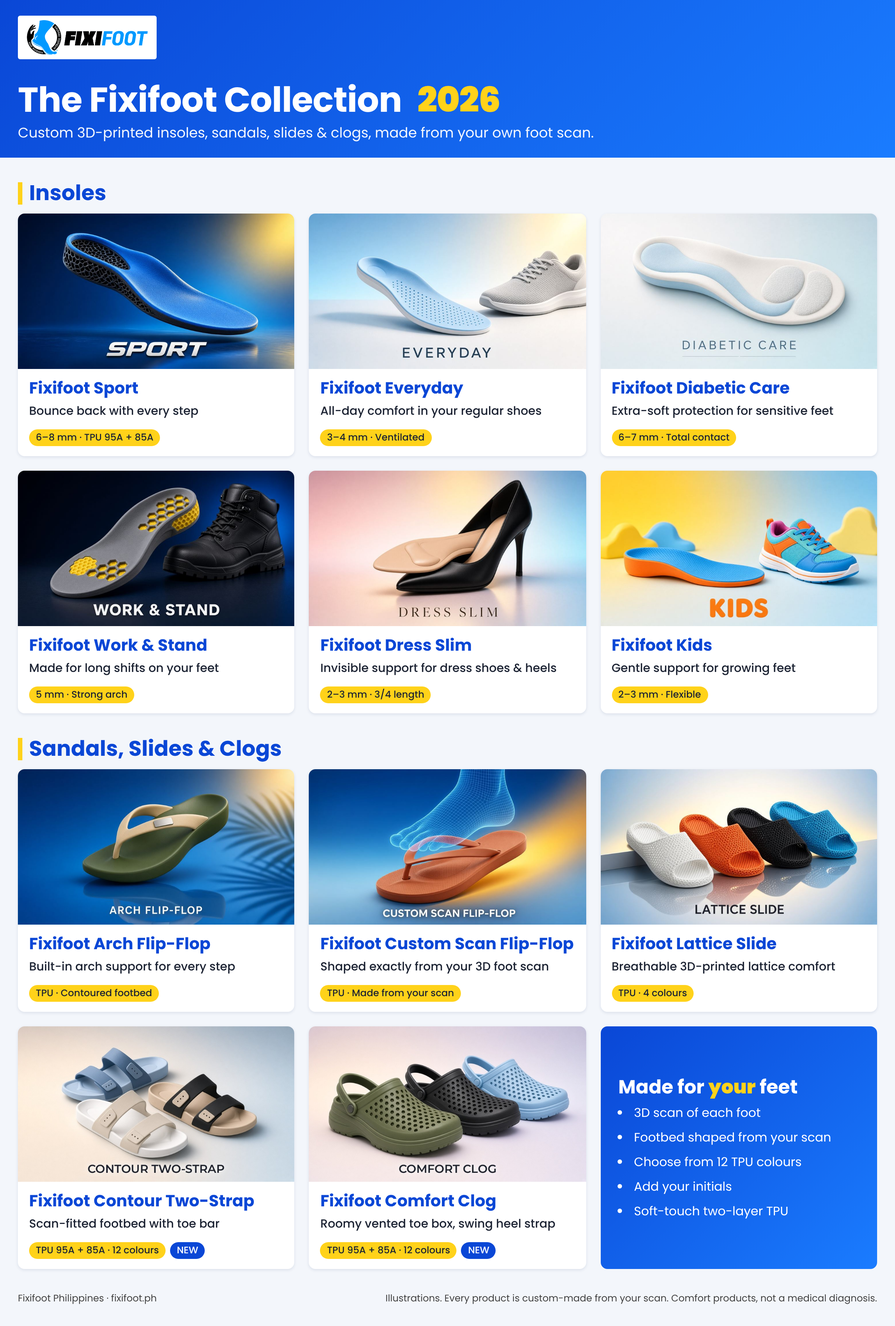
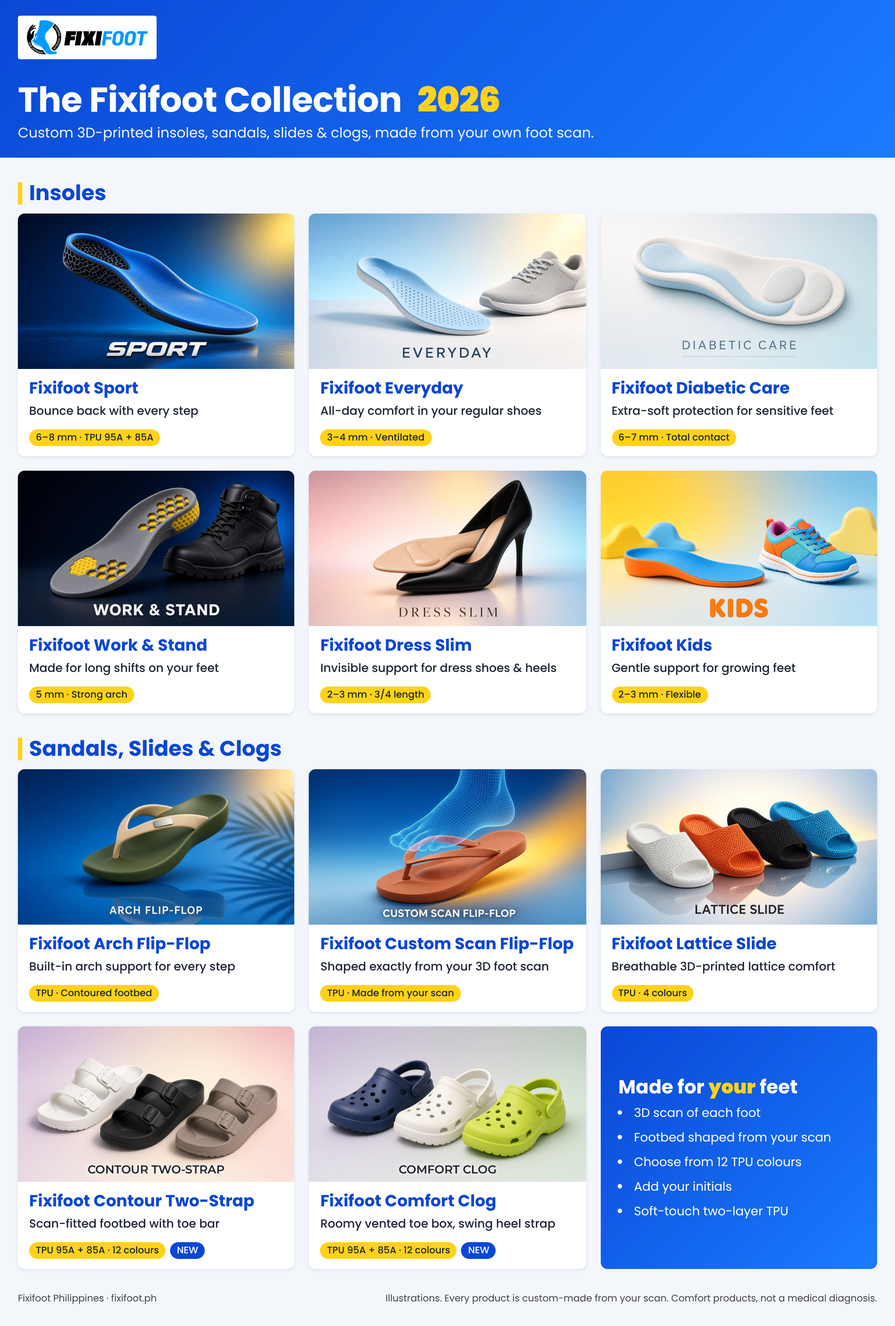
v13.2: classic-look Two-Strap (rim, toe ridge, tread, molded buckles) + Comfort Clog (round top/side vents, rounded nose, swing strap on rivets), new heroes

Changed region(s): [[0.0, 0.7487, 0.6562, 0.9047]]

diff --git a/footwear.js b/footwear.js
@@ -10,9 +10,11 @@ const smooth = (a, b, x) => { const t = clamp((x - a) / (b - a), 0, 1); return t
 const lerp = (a, b, t) => a + (b - a) * t;
 
 export const SHOE = {
-  sandal: { strapW: 26, strapT: 3.2, gap: 1.2, notch: 1.6, side: .25, tabBottom: 2.5, holeD: 4, buckle: 1.8, uRear: .52, dFront: .01 },
-  clog: { u0: .56, wall: 2.8, gap: .5, clearTop: 7, clearSide: 3, yB: 3, nose: 30, n: 2.6, minH: 18, vent: { cell: 15, wall: 4.5 },
-    flare: 14, strapH: 18, strapT: 3, pad: 1.2, pinH: 4.4, pinR: 3.1, holeD: 5.0, strapOff: 6 },
+  sandal: { strapW: 26, strapT: 3.2, gap: 1.2, notch: 1.6, side: .25, tabBottom: 2.5, uRear: .52, dFront: .01,
+    buckle: { h: 2.4, a: 11, bw: 2.6, at: 34, tail: 1.1, tailLen: 24 } }, // molded rectangular buckle (relief on the strap, same part)
+  clog: { u0: .56, wall: 2.8, gap: .5, clearTop: 7, clearSide: 3, yB: 3, nose: 40, n: 2.6, minH: 18,
+    vent: { n: 13, d: 11, du: 15, dx: 16.5 }, sideVent: { len: 15, h: 5.5, perSide: 2, aboveSole: 7 }, // round top vents in staggered rows + elongated side vents
+    flare: 14, strapH: 18, strapT: 3, pad: 1.6, padR: 8, pinH: 4.4, pinR: 3.1, holeD: 5.0, strapOff: 6, swingDrop: 22 }, // heel strap shown swung down: its plane is tilted about the pin axis
 };
 
 /* ---------- 1. top-of-foot envelope (max height per foot-u / across bin), from the scan mesh or the model foot ---------- */
@@ -111,29 +113,31 @@ function sandalStraps({ md, rows, env }) {
     const lo = Math.min(xMs, xLs), hi = Math.max(xMs, xLs);
     path = path.map(([x, y]) => (y < top && x > lo + .01 && x < hi - .01) ? [Math.abs(x - xMs) < Math.abs(x - xLs) ? xMs : xLs, y] : [x, y]); // never cut into the sole edge
     const Lp = plen(path), Pn = resample(path, Math.max(80, Math.ceil(Lp / .8))), ps = pathSampler(Pn, [(xMs + xLs) / 2, C.tabBottom + 8]);
-    // lateral side: raised slider frame + 3 adjustment holes (adjustable look; the strap is sized from the scan)
-    const tabL = tzL + 3 - C.tabBottom, dB = tabL + 22, uOfD = dd => 1 - dd / Lp, bU = uOfD(dB);
-    const holes = [0, 1, 2].map(k => ({ u: uOfD(dB + 16 + 7 * k), r: C.holeD / 2 }));
-    const bump = (ui, sn) => C.buckle * (1 - smooth(.72, 1, Math.max(Math.abs(ui - bU) * Lp / 9, Math.abs(sn) / .82)));
-    const plan = bandPlan(Lp, W, holes), I = v => { const q = ps(v.ui); return [q.p[0], q.p[1], zk + v.sn * W / 2]; };
+    // lateral side: molded rectangular buckle (frame + centre bar) and the strap tail lying over the strap (adjustable look; the strap is sized from the scan)
+    const B = C.buckle, tabL = tzL + 3 - C.tabBottom, dB = tabL + B.at, bL = (1 - dB / Lp) * Lp, bb = W / 2 * .8, sq = (v, a, e) => 1 - smooth(a - e, a + e * .4, Math.abs(v));
+    const bump = (ui, sn) => { const l = ui * Lp - bL, x = sn * W / 2, outer = sq(l, B.a, .7) * sq(x, bb, .7), inner = sq(l, B.a - B.bw, .6) * sq(x, bb - B.bw, .6), bar = sq(l, B.bw * .45, .5) * inner;
+      const tail = B.tail * (1 - smooth(B.tailLen - 4, B.tailLen, -l)) * smooth(-2, 0, -l) * sq(x, W / 2 * .86, .9); // tail runs from the buckle towards the top of the arch
+      return Math.max(B.h * Math.max(outer - inner, bar), tail * (1 - outer)); };
+    const plan = bandPlan(Lp, W), I = v => { const q = ps(v.ui); return [q.p[0], q.p[1], zk + v.sn * W / 2]; };
     const O = v => { const q = ps(v.ui), t = C.strapT + bump(v.ui, v.sn); return [q.p[0] + q.n[0] * t, q.p[1] + q.n[1] * t, zk + v.sn * W / 2]; };
     const b = shellBody(plan, isInsertHole(plan), I, O);
     const pg = toBed(b.geometry); // printed on edge: arch in XY, strap width along Z (no supports)
     parts.push({ id: d.id, name: d.name, geometry: b.geometry, printGeometry: pg, volumeMm3: b.volumeMm3,
-      stats: { footU: +d.u.toFixed(3), widthMm: +W.toFixed(1), thicknessMm: C.strapT, lengthMm: Math.round(Lp), archTopMm: Math.round(Math.max(...Pn.map(p => p[1]))), clearanceOverFootMm: C.gap, footTopUnderStrapMm: Math.round(envPeak), adjustmentHoles: 3, orientation: 'on edge (strap width vertical), arch flat on the bed' } });
+      stats: { footU: +d.u.toFixed(3), widthMm: +W.toFixed(1), thicknessMm: C.strapT, lengthMm: Math.round(Lp), archTopMm: Math.round(Math.max(...Pn.map(p => p[1]))), clearanceOverFootMm: C.gap, footTopUnderStrapMm: Math.round(envPeak), buckle: 'molded rectangular buckle (relief, same part)', orientation: 'on edge (strap width vertical), arch flat on the bed' } });
   }
   return parts;
 }
 
-/* ---------- 5. Comfort Clog: roomy toe-box upper with honeycomb vents + pivoting heel strap ---------- */
+/* ---------- 5. Comfort Clog: roomy toe-box upper with round top vents, side vents + swing heel strap on round rivets ---------- */
 function clogParts({ md, rows, frame: F, env, heelStrap = true }) {
   const C = SHOE.clog, T = rowTools(rows, md), sg = md.medialX, n = C.n, yB = C.yB;
   const z0 = md.zOfU(C.u0), zEi = F.zFront - C.gap;
   const edgeZ = z => F.edge(clamp((F.zBack - z) / F.Li, 0, 1));
-  const NT = 150, NA = 121, NW = 16, R = [];
+  const NT0 = 150, NC = 14, NT = NT0 + NC, NA = 121, NW = 16, R = [], capLen = 9; // NC sections beyond the sole front close the nose (rounded cap)
+  const CF = Array.from({ length: NT + 1 }, (_, k) => k <= NT0 ? 1 : Math.max(.05, Math.sqrt(1 - ((k - NT0) / NC) ** 2)));
   const frac = q => Math.pow(Math.max(0, 1 - Math.pow(Math.min(1, Math.abs(q)), n)), 1 / n);
   // section = straight side walls (yB -> yW, wrapping the sole side) + superellipse roof (yW -> H)
-  const ZI = Array.from({ length: NT + 1 }, (_, k) => lerp(z0, zEi, k / NT)), EI = ZI.map(edgeZ), AI = EI.map(e => e.half + C.gap), len = z0 - zEi;
+  const ZI = Array.from({ length: NT + 1 }, (_, k) => k <= NT0 ? lerp(z0, zEi, k / NT0) : zEi - capLen * Math.sin(Math.PI / 2 * (k - NT0) / NC)), EI = ZI.map(edgeZ), AI = EI.map((e, k) => (e.half + C.gap) * CF[k]), len = z0 - zEi;
   const LF = ZI.map(z => T.lift(clamp(md.uOfZ(z), 0, 1))), DT = ZI.map(z => z - zEi);
   const YS = ZI.map(z => { const r = rows[T.iOfZ(Math.max(z, F.zFront))]; return Math.max(r[0].tz, r[T.M - 1].tz) + 1; }); // sole edge top: the upper wraps the sole side wall up to here
   const FOOT = ZI.map((zi, k) => { const e = EI[k], a = AI[k], out = [];
@@ -142,17 +146,18 @@ function clogParts({ md, rows, frame: F, env, heelStrap = true }) {
   // roof height + per-side roof half-width (the walls may flare out above the sole so the roof clears the scanned foot)
   const solveRow = (k, yW) => { const a = AI[k], pts = FOOT[k].filter(p => p[1] > yW); if (!pts.length) return { H: DT[k] > C.nose ? yW + 10 : yB + 2, aM: a, aL: a };
     const Ymax = Math.max(...pts.map(p => p[1]));
-    for (let Ht = Ymax + 3; ; Ht += 2) { let aM = a, aL = a;
+    for (let Ht = Ymax + 3; ; Ht += .5) { let aM = a, aL = a;
       for (const [dx, y] of pts) { const r = (y - yW) / (Ht - yW), g = Math.pow(Math.max(1e-6, 1 - Math.pow(r, n)), 1 / n), need = Math.abs(dx) / g + .5; if (dx * sg >= 0) aM = Math.max(aM, need); else aL = Math.max(aL, need); }
       if ((aM <= a + C.flare && aL <= a + C.flare) || Ht > Ymax + (DT[k] > C.nose ? 40 : 12)) return { H: Ht, aM: Math.min(aM, a + C.flare), aL: Math.min(aL, a + C.flare) }; } };
   const runMax = (A, r) => A.map((_, i) => Math.max(...A.slice(Math.max(0, i - r), i + r + 1))), runMean = (A, r) => A.map((_, i) => { const s = A.slice(Math.max(0, i - r), i + r + 1); return s.reduce((x, y) => x + y, 0) / s.length; });
-  const YW0 = LF.map((l, k) => Math.max(l + 16, YS[k] + 8)), kN = clamp(Math.round((1 - C.nose / len) * NT), 0, NT), sm = A => runMean(runMax(A, 4), 6);
+  const YW0 = LF.map((l, k) => Math.max(l + 16, YS[k] + 8)), kN = clamp(Math.round((1 - C.nose / len) * NT0), 0, NT0), sm = A => runMean(runMax(A, 6), 8);
   const shape = YW => { const sol = YW.map((w, k) => solveRow(k, w)), Hr = sol.map(x => x.H); let H = sm(Hr); const HN = H[kN];
-    H = H.map((h, k) => { const d = DT[k]; if (d >= C.nose) return Math.max(h, Hr[k]); return Math.max(Hr[k], yB + (HN - yB) * Math.sqrt(Math.max(0, 1 - ((C.nose - d) / C.nose) ** 2))); });
+    const NS = C.nose + capLen; H = H.map((h, k) => { const d = DT[k] + capLen; if (d >= NS) return Math.max(h, Hr[k]); const base = YS[k] + 2; return Math.max(k > NT0 ? 0 : Hr[k], base + (HN - base) * Math.sqrt(Math.max(0, 1 - ((NS - d) / NS) ** 2))); }); // rounded nose down onto the sole edge, through the cap // nose closes onto the sole edge (never below the footbed)
+    H = runMean(H, 5).map((h, k) => Math.max(h, k > NT0 ? 0 : Hr[k] - .8)); // no ripples: smooth roof line (≤ 0.8 mm into the 7 mm clearance)
     const aM = sm(sol.map(x => x.aM)).map((v, k) => Math.max(v, AI[k])), aL = sm(sol.map(x => x.aL)).map((v, k) => Math.max(v, AI[k])); return { H, aM, aL }; };
   let SH = shape(YW0), YW = YW0.map((w, k) => Math.min(w, yB + .55 * (SH.H[k] - yB)));
   SH = shape(YW); YW = YW0.map((w, k) => Math.min(w, yB + .55 * (SH.H[k] - yB)));
-  const H = SH.H.map((h, k) => Math.max(h, YW[k] + 1));
+    const H = SH.H.map((h, k) => Math.max(h, YW[k] + 1));
   for (let k = 0; k <= NT; k++) {
     const t = k / NT, zi = ZI[k], ei = EI[k], Hi = H[k], Ho = Hi + C.wall * (1 - smooth(.94, 1, t)), yW = YW[k], yS = Math.min(YS[k], yB + .6 * (yW - yB));
     // outer outline = inner outline offset by the wall thickness along its plan normal (true offset round the toe)
@@ -183,17 +188,29 @@ function clogParts({ md, rows, frame: F, env, heelStrap = true }) {
     piv = { uiP, yP, M: snAt(1), L: snAt(-1) };
     extras.push({ id: 'pinM', u: uiP, sn: piv.M, ru: C.pinR, rs: C.pinR, n: 20, minRim: 2 }, { id: 'pinL', u: uiP, sn: piv.L, ru: C.pinR, rs: C.pinR, n: 20, minRim: 2 });
   }
-  const plan = planSplit(S, { mode: 'lattice', preset: { ...C.vent }, rimMargin: 9, allow: (u, sn) => u > .18 && u < .76 && Math.abs(sn) < .36, extras });
+  // vents: ~13 round holes in staggered rows on top of the toe box + elongated side vents just above the sole line (real through-holes)
+  const LR = ridge[NT], halfAt = ui => S(ui, 1).x, uiOfL = l => { let a = 0, b = 1; for (let it = 0; it < 40; it++) { const m = (a + b) / 2; if (S(m, 0).l < l) a = m; else b = m; } return (a + b) / 2; };
+  const V = C.vent, lc = LR * .5, cand = [];
+  for (let r = -4; r <= 4; r++) for (let j = -5; j <= 5; j++) { const l = lc + r * V.du, x = (j + (r & 1) * .5) * V.dx, ui = uiOfL(l); if (ui < .2 || ui > .84) continue; const sn = x / halfAt(ui); if (Math.abs(sn) > .4) continue;
+    cand.push({ ui, sn, d: Math.hypot(l - lc, x / 1.3) }); }
+  cand.sort((a, b) => a.d - b.d);
+  for (const c of cand.slice(0, V.n + 4)) extras.push({ id: 'vent' + extras.length, u: c.ui, sn: c.sn, ru: V.d / 2, rs: V.d / 2, n: 24, minRim: 3, _top: 1 });
+  const SV = C.sideVent, snY = (ui, side, y) => { let lo = side > 0 ? 0 : -1, hi = side > 0 ? 1 : 0; for (let it = 0; it < 40; it++) { const m = (lo + hi) / 2, yy = at(ui, m, false)[1]; if ((yy > y) === (side > 0)) lo = m; else hi = m; } return (lo + hi) / 2; };
+  const uiS0 = piv ? piv.uiP + 22 / LR : .2;
+  for (let q = 0; q < SV.perSide; q++) { const ui = lerp(uiS0, .66, SV.perSide > 1 ? q / (SV.perSide - 1) : .5), k = Math.round(ui * NT), y = Math.min(YS[k], yB + .6 * (YW[k] - yB)) + SV.aboveSole;
+    for (const side of [1, -1]) extras.push({ id: 'side' + extras.length, u: ui, sn: snY(ui, side, y), ru: SV.len / 2, rs: SV.h / 2, n: 24, minRim: 2.5 }); }
+  const plan = planSplit(S, { rimMargin: 6, extras });
+  { let kept = 0; for (const f of plan.feats) if (f.kind === 'insert' && /^vent/.test(f.id)) { kept++; if (kept > V.n) f.kind = 'dropped'; } }
   const devAt = (ui, sn) => { const s = S(ui, sn); return [s.x, s.l]; };
   const pinD = piv ? ['M', 'L'].map(k => { const d = devAt(piv.uiP, piv[k]); return d; }) : [];
   const bumpAt = v => { if (!piv) return 0; let b = 0; for (const d of pinD) { const s = S(v.ui, v.sn), r = Math.hypot(s.x - d[0], s.l - d[1]);
-    b = Math.max(b, C.pad * (1 - smooth(5, 8, r)) + C.pinH * (1 - smooth(C.pinR * .62, C.pinR * .9, r))); } return b; };
+    b = Math.max(b, C.pad * (1 - smooth(C.padR - 2.5, C.padR, r)) + C.pinH * (1 - smooth(C.pinR * .62, C.pinR * .9, r))); } return b; }; // round rivet: raised disc + pin
   const Ifn = v => at(v.ui, v.sn, false), Ofn = v => { const o = at(v.ui, v.sn, true), b = bumpAt(v); if (!b) return o; const i = at(v.ui, v.sn, false), d = [o[0] - i[0], o[1] - i[1], o[2] - i[2]], l = Math.hypot(...d) || 1; return [o[0] + d[0] / l * b, o[1] + d[1] / l * b, o[2] + d[2] / l * b]; };
-  const isVent = t => t.t === 'i' && plan.feats[t.f].kind === 'cell';
-  const vents = plan.feats.filter(f => f.kind === 'cell').length;
+  const isVent = t => t.t === 'i' && plan.feats[t.f].kind === 'insert' && /^(vent|side)/.test(plan.feats[t.f].id);
+  const vents = plan.feats.filter(f => f.kind === 'insert' && /^vent/.test(f.id)).length, sideVents = plan.feats.filter(f => f.kind === 'insert' && /^side/.test(f.id)).length;
   const up = shellBody(plan, t => !isVent(t), Ifn, Ofn);
-  const parts = [{ id: 'upper', name: 'Clog upper (toe box, honeycomb vents)', geometry: up.geometry, printGeometry: toBed(up.geometry, Math.PI / 2), volumeMm3: up.volumeMm3,
-    stats: { throatFootU: C.u0, wallMm: C.wall, toeAllowanceMm: +(md.zToe - zEi).toFixed(1), clearanceTopMm: C.clearTop, clearanceSideMm: C.clearSide, heightMm: Math.round(Math.max(...R.map(r => r.Ho))), roofProfileMm: H.filter((_, k) => k % 15 === 0).map(Math.round), wallTopMm: YW.filter((_, k) => k % 15 === 0).map(Math.round), roofHalfMm: SH.aM.filter((_, k) => k % 15 === 0).map(Math.round), vents, ventCellMm: C.vent.cell, ventWallMm: C.vent.wall, orientation: 'upright, rim down; organic supports under the toe-box roof only' } }];
+  const parts = [{ id: 'upper', name: 'Clog upper (toe box, round vents)', geometry: up.geometry, printGeometry: toBed(up.geometry, Math.PI / 2), volumeMm3: up.volumeMm3,
+    stats: { throatFootU: C.u0, wallMm: C.wall, toeAllowanceMm: +(md.zToe - zEi).toFixed(1), clearanceTopMm: C.clearTop, clearanceSideMm: C.clearSide, heightMm: Math.round(Math.max(...R.map(r => r.Ho))), roofProfileMm: H.filter((_, k) => k % 15 === 0).map(Math.round), wallTopMm: YW.filter((_, k) => k % 15 === 0).map(Math.round), roofHalfMm: SH.aM.filter((_, k) => k % 15 === 0).map(Math.round), vents, ventDiameterMm: C.vent.d, sideVents, sideVentMm: [SV.len, SV.h], orientation: 'upright, rim down; organic supports under the toe-box roof only' } }];
   if (piv) { // pivoting heel strap: band around the heel, outside the sole outline, holes over the pins
     const pM = Ofn({ ui: piv.uiP, sn: piv.M }), pL = Ofn({ ui: piv.uiP, sn: piv.L }), iM = Ifn({ ui: piv.uiP, sn: piv.M }), iL = Ifn({ ui: piv.uiP, sn: piv.L });
     const padM = Ofn({ ui: piv.uiP + 5.5 / ridge[NT], sn: piv.M }), padL = Ofn({ ui: piv.uiP + 5.5 / ridge[NT], sn: piv.L }); // pad surface next to the pin
@@ -208,8 +225,12 @@ function clogParts({ md, rows, frame: F, env, heelStrap = true }) {
     const proj = s => { let b = 0, bd = Infinity; P2.forEach((p, i) => { const d = Math.hypot(p[0] - s[0], p[1] - s[1]); if (d < bd) { bd = d; b = i; } }); return b / (P2.length - 1); };
     const hs = [proj(sM), proj(sL)], plan2 = bandPlan(Lp, C.strapH, hs.map(u => ({ u, r: C.holeD / 2 })));
     const I2 = v => { const q = ps(v.ui); return [q.p[0], piv.yP + v.sn * C.strapH / 2, q.p[1]]; }, O2 = v => { const q = ps(v.ui); return [q.p[0] + q.n[0] * C.strapT, piv.yP + v.sn * C.strapH / 2, q.p[1] + q.n[1] * C.strapT]; };
-    const hb = shellBody(plan2, isInsertHole(plan2), I2, O2);
-    parts.push({ id: 'heelStrap', name: 'Heel strap (pivots on the two pins)', geometry: hb.geometry, printGeometry: toBed(hb.geometry, Math.PI / 2), volumeMm3: hb.volumeMm3,
+    const hb = shellBody(plan2, isInsertHole(plan2), I2, O2), flat = hb.geometry, worn = flat.clone();
+    { // swing the strap down round the pin axis (planar part -> printed flat on edge, worn tilted round the heel)
+      const zBackS = Math.max(...back.map(q => q[1])), ang = Math.atan2(C.swingDrop, Math.max(40, zBackS - zP)), Pz = worn.attributes.position;
+      for (let i = 0; i < Pz.count; i++) { const y = Pz.getY(i) - piv.yP, z = Pz.getZ(i) - zP; Pz.setY(i, piv.yP + y * Math.cos(ang) - z * Math.sin(ang)); Pz.setZ(i, zP + y * Math.sin(ang) + z * Math.cos(ang)); }
+      worn.computeVertexNormals(); }
+    parts.push({ id: 'heelStrap', name: 'Heel strap (swings on the two rivets)', geometry: worn, printGeometry: toBed(flat, Math.PI / 2), volumeMm3: hb.volumeMm3,
       stats: { heightMm: C.strapH, thicknessMm: C.strapT, lengthMm: Math.round(Lp), pivotHeightMm: Math.round(piv.yP), pinDiameterMm: +(C.pinR * 1.5).toFixed(1), pinLengthMm: C.pinH, strapHoleMm: C.holeD, holesFound: plan2.feats.filter(f => f.kind === 'insert').length, orientation: 'on edge (strap height vertical), no supports' } });
   }
   return parts;

diff --git a/rules.js b/rules.js
@@ -496,25 +496,25 @@
     { id: 'slide', name: 'Fixifoot Lattice Slide', tagline: 'Light, airy honeycomb slide', kind: 'slide', image: 'catalog/slide-hero.jpg', photo: 'assets/slide-lattice.jpg', illustration: true, illusCap: 'Illustration – your product is custom-made from your scan',
       desc: '3D-printed honeycomb mesh slide. Light, airy, washable.', colors: ['#f4f6f6', '#f26b1d', '#1f2a30', '#1aa7d8'], examplePrice: 3490 },
     /* v13 footwear: scan-fitted 2-material sole (95A base + 85A top) + separate printed straps / upper (footwear.js) */
-    { id: 'twostrap', name: 'Fixifoot Contour Two-Strap', tagline: 'Deep heel cup, toe bar, two wide straps', kind: 'sandal', image: 'catalog/twostrap-hero.jpg', illustration: true, illusCap: 'Illustration – your product is custom-made from your scan',
-      desc: 'Two-strap sandal on a contoured footbed shaped from your scan: deep heel cup, raised toe bar and your arch support. Firm 95A sole, soft 85A top layer, two wide straps sized to your forefoot and instep.',
+    { id: 'twostrap', name: 'Fixifoot Contour Two-Strap', tagline: 'Chunky sole, two buckle straps', kind: 'sandal', image: 'catalog/twostrap-hero.jpg', illustration: true, illusCap: 'Illustration – your product is custom-made from your scan',
+      desc: 'Two-strap sandal with a chunky sole and a contoured footbed shaped from your scan: raised rim, toe grip ridge, deep heel cup, light tread and your arch support. Firm 95A sole, soft 85A top layer, two wide buckle straps sized to your forefoot and instep.',
       colors: ['#6b4f3a', '#1c1f24', '#dcb48c', '#0099ff'], examplePrice: 9999,
-      shoe: { type: 'sandal', toeBar: true, minCup: 16, summary: 'scan-fitted footbed (deep 16+ mm heel cup, raised toe bar) on a 13–18 mm sole; 2 straps arched over the scanned foot' },
+      shoe: { type: 'sandal', toeBar: true, toeBarMm: 6, minCup: 18, rim: 5, tread: 1.2, summary: 'chunky one-piece sole: scan-fitted footbed with raised rim, pronounced toe grip ridge, deep 18+ mm heel cup and light tread; 2 wide straps with molded buckles, arched over the scanned foot' },
       dual: { id: 'twostrap', type: 'layer', topT: 2.5, look: 'firm 95A sole + soft 85A footbed top layer; straps in the top colour',
         bodies: [{ id: 'sole', name: 'Two-Strap sole (base)', material: 'TPU 95A', color: '#1c1f24', colorName: 'Black', extruder: 1, infill: 'gyroid 15%' }, { id: 'top', name: 'Two-Strap soft footbed top layer', material: 'TPU 85A', color: '#dcb48c', colorName: 'Beige / nude', extruder: 2, infill: '100% (solid top layer)' }],
         extras: [{ id: 'strapFront', name: 'Front strap (forefoot)', material: 'TPU 85A', colorFrom: 1, extruder: 2, infill: '100% (solid)' }, { id: 'strapRear', name: 'Rear strap (instep)', material: 'TPU 85A', colorFrom: 1, extruder: 2, infill: '100% (solid)' }] },
       print: { base: 'TPU 95A sole', top: 'TPU 85A footbed top layer 2.5 mm (dual extruder / tool changer)', pattern: 'gyroid', infill: '15%', walls: 3, topLayers: 5, bottomLayers: 4, layer: '0.2 mm',
-        zones: [{ zone: 'Straps', infill: 'solid TPU 85A, printed on edge', why: 'soft, strong, no supports' }, { zone: 'Strap notches', infill: '1.6 mm recess in the sole side', why: 'locates the strap ends for bonding' }],
+        zones: [{ zone: 'Straps', infill: 'solid TPU 85A, printed on edge', why: 'soft, strong, no supports' }, { zone: 'Strap notches', infill: '1.6 mm recess in the sole side', why: 'locates the strap ends for bonding' }, { zone: 'Tread', infill: '1.2 mm chevron grooves in the bottom face', why: 'grip; bridged by the first layers' }],
         nozzleC: '225-235', bedC: '45-50', speed: '25-35 mm/s', notes: 'Sole flat on the bed (2-material 3MF). Straps printed separately on edge, then bonded into the side notches with flexible TPU / PU adhesive or heat-welded.' } },
-    { id: 'clog', name: 'Fixifoot Comfort Clog', tagline: 'Roomy toe box, honeycomb vents', kind: 'clog', image: 'catalog/clog-hero.jpg', illustration: true, illusCap: 'Illustration – your product is custom-made from your scan',
-      desc: 'Roomy closed clog on a footbed shaped from your scan. Honeycomb vents on top, optional pivoting heel strap. Firm 95A sole and shell, soft 85A top layer.',
+    { id: 'clog', name: 'Fixifoot Comfort Clog', tagline: 'Roomy toe box, round vents', kind: 'clog', image: 'catalog/clog-hero.jpg', illustration: true, illusCap: 'Illustration – your product is custom-made from your scan',
+      desc: 'Roomy closed clog on a thick footbed shaped from your scan. Round vents on top and at the sides, light tread, optional swing heel strap on round rivets. Firm 95A sole and shell, soft 85A top layer.',
       colors: ['#0099ff', '#1c1f24', '#6b7b3a', '#f3f5f7'], examplePrice: 9999,
-      shoe: { type: 'clog', toeBar: false, minCup: 14, heelStrap: true, summary: 'scan-fitted footbed (14+ mm heel cup) on a 13–18 mm sole; upper sized from the scan with ~7 mm toe room and 7 mm over the toes' },
+      shoe: { type: 'clog', toeBar: false, minCup: 14, heelStrap: true, tread: 1.2, summary: 'thick scan-fitted sole (14+ mm heel cup, light tread); roomy rounded toe box sized from the scan (~7 mm toe room) with ~13 round top vents + side vents; swing heel strap on round rivets' },
       dual: { id: 'clog', type: 'layer', topT: 2.5, look: 'firm 95A sole + shell, soft 85A footbed top layer; heel strap in the top colour',
         bodies: [{ id: 'sole', name: 'Clog sole (base)', material: 'TPU 95A', color: '#0099ff', colorName: 'Fixifoot Blue', extruder: 1, infill: 'gyroid 15%' }, { id: 'top', name: 'Clog soft footbed top layer', material: 'TPU 85A', color: '#f3f5f7', colorName: 'White', extruder: 2, infill: '100% (solid top layer)' }],
         extras: [{ id: 'upper', name: 'Clog upper (toe box)', material: 'TPU 95A', colorFrom: 0, extruder: 1, infill: '100% (2.8 mm wall, 4 perimeters)' }, { id: 'heelStrap', name: 'Heel strap', material: 'TPU 85A', colorFrom: 1, extruder: 2, infill: '100% (solid)' }] },
       print: { base: 'TPU 95A sole + upper', top: 'TPU 85A footbed top layer 2.5 mm (dual extruder / tool changer)', pattern: 'gyroid', infill: '15%', walls: 3, topLayers: 5, bottomLayers: 4, layer: '0.2 mm',
-        zones: [{ zone: 'Upper', infill: 'solid 2.8 mm shell', why: 'keeps the toe box shape' }, { zone: 'Vents', infill: 'real hexagonal through-openings', why: 'airflow' }],
+        zones: [{ zone: 'Upper', infill: 'solid 2.8 mm shell', why: 'keeps the toe box shape' }, { zone: 'Vents', infill: '~13 round Ø9.5 mm top vents + 2 elongated side vents per side, real through-holes', why: 'airflow' }],
         nozzleC: '225-235', bedC: '45-50', speed: '25-35 mm/s', notes: 'Sole flat on the bed (2-material 3MF). Upper upright, rim down, organic supports under the roof only; bond the upper rim around the sole side wall. Heel strap on edge, press onto the two pins.' } },
     { id: 'fullcontact', name: 'Full-contact TPU insole', kind: 'insole', image: 'assets/insole-fullcontact.jpg',
       desc: 'Full-length TPU insole with sculpted arch support.', colors: ['#c8784a', '#d9a066', '#1f2a30', '#0099ff'], examplePrice: 2790 },

diff --git a/fit.js b/fit.js
@@ -289,7 +289,7 @@ export function encodeGrid(gr) { const q = new Int16Array(gr.raw.length); for (l
 export function decodeGrid(e) { const s = atob(e.q), u = new Uint8Array(s.length); for (let i = 0; i < s.length; i++) u[i] = s.charCodeAt(i); const q = new Int16Array(u.buffer), raw = new Float32Array(q.length), sil = new Uint8Array(q.length); for (let k = 0; k < q.length; k++) { raw[k] = q[k] <= -32767 ? NaN : q[k] / 10; sil[k] = q[k] === -32768 ? 0 : 1; } return { res: e.res, x0: e.x0, z0: e.z0, nx: e.nx, nz: e.nz, raw, sil }; }
 
 /* ---------------- 3. total-contact insole / footbed ---------------- */
-export const ALLOW = { insole: { side: 1.5, heel: 1, toe: 6 }, flipflop: { side: 6, heel: 5, toe: 8 }, slide: { side: 6, heel: 5, toe: 8 }, sandal: { side: 4, heel: 5, toe: 12 }, clog: { side: 5, heel: 6, toe: 7 } }; // v13: two-strap sandal / clog
+export const ALLOW = { insole: { side: 1.5, heel: 1, toe: 6 }, flipflop: { side: 6, heel: 5, toe: 8 }, slide: { side: 6, heel: 5, toe: 8 }, sandal: { side: 6, heel: 5, toe: 12 }, clog: { side: 5, heel: 6, toe: 7 } }; // v13: two-strap sandal / clog
 // clinical modifications on top of the scanned surface; u = foot length fraction (0 heel, 1 toe tip), sn = +1 medial
 function mods(md, p, u, sn, hw) {
   let z = 0; const rad = Math.PI / 180, L = md.L;
@@ -301,7 +301,7 @@ function mods(md, p, u, sn, hw) {
   z += Math.tan(p.lateralWedge * rad) * hw * (1 - sn) * 0.5 * (1 - smooth(.75, .95, u));
   const padU = md.ballU - 15 / L; // dome apex ~15 mm behind the met-head line -> front edge ~6-11 mm behind it
   if (p.metPad) { const cs = p.metPad === 'neuroma' ? -.22 : 0.05; z += 4.5 * Math.exp(-(((u - padU) / (10 / L)) ** 2 + ((sn - cs) / .28) ** 2)); }
-  if (p.toeCrest) z += 4 * gauss(u, md.sulcusU - .012, .02) * (1 - smooth(.45, .8, Math.abs(sn + .08)));
+  if (p.toeCrest) z += (p.toeCrestMm || 4) * gauss(u, md.sulcusU - .012, .02) * (1 - smooth(.45, .8, Math.abs(sn + .08)));
   if (p.mortonExtension) z += 1.5 * smooth(md.ballU - .04, md.ballU, u) * smooth(.25, .45, sn);
   const ell = (cu, cs, ru, rs) => 1 - smooth(.7, 1, Math.hypot((u - cu) / ru, (sn - cs) / rs));
   let dep = 0;
@@ -385,11 +385,15 @@ export function buildContactSole(md, opts) {
       const rf = md.rowAt(e.z), fh = Math.max(4, (rf.hi - rf.lo) / 2), sf = (x - (rf.lo + rf.hi) / 2) * md.medialX / fh;
       const cup = p.heelCupDepth * smooth(.93, 1.05, Math.hypot(Math.max(0, (.12 - u) / .12), sf)) * (1 - smooth(.22, .38, u));
       const flange = p.lateralFlange ? 7 * smooth(.68, 1, -sn) * smooth(.02, .1, u) * (1 - smooth(.52, .68, u)) : 0;
-      let top = th + Math.max(P, cup, flange) + mods(md, p, u, sn, e.half);
+      // v13.2 footwear: raised rim outside the scanned footprint (sides + toe) – never under the foot
+      const dEdge = Math.min((1 - Math.abs(sn)) * e.half, Math.max(0, e.z - F.zFront) + 99 * (1 - smooth(.9, .95, u))), rim = p.shoeRim ? p.shoeRim * (1 - smooth(2.5, 8, dEdge)) * smooth(.24, .36, u) : 0;
+      let top = th + Math.max(P, cup, flange) + mods(md, p, u, sn, e.half) + rim;
       if (M) top += modelExtra(md, M, u, sn);
       top -= smooth(.86, 1, Math.abs(sn)) * (M ? M.rim : p.noHardEdges ? 1.2 : 0.5) * (kind === 'insole' ? 1 : .6); // rounded rim
       if (frontU != null) top -= 0.6 * smooth(.9, 1, ui); // 3/4 front edge blends down
-      row.push({ u, ui, sn, x, z: e.z, tz: Math.max(M ? 1.2 : 1.0, top), bz: 0 });
+      // v13.2 footwear: light tread = shallow chevron grooves in the bottom face (bridged by the first layers, visible as notches round the edge)
+      let bz = 0; if (p.tread) { const w = Math.abs(((e.z + .45 * Math.abs(x - e.c)) / 9 % 1 + 1) % 1 - .5) * 9; bz = p.tread * (1 - smooth(1.1, 2.0, w)); }
+      row.push({ u, ui, sn, x, z: e.z, tz: Math.max(M ? 1.2 : 1.0, top), bz });
     }
     rows.push(row);
   }

diff --git a/app.js b/app.js
@@ -533,7 +533,7 @@ function currentSpec(side = state.side) {
     res.fitting = { ...fit, over, applied: { archBoost: res.params.archBoost, archFill: res.params.archFill, heelCupDepth: res.params.heelCupDepth, medialPost: res.params.medialPost, lateralWedge: res.params.lateralWedge, metPad: !!res.params.metPad, heelLift: res.params.heelLift, offloadPockets: !!res.params.offloadPockets, firstMTPRelief: !!res.params.firstMTPRelief }, modelArch: mb };
     res.notes.unshift(`Orthotist engine${fit.measurements.approx ? ' (APPROX – no scan)' : ''}: ${fit.corrections.filter(c => (over[c.id] ?? c.value)).map(c => c.label + ' ' + fmtCorr(c, over[c.id] ?? c.value)).join(', ') || 'no corrections'} – starting prescription, to be reviewed by a licensed orthotist / podiatrist.`);
   }
-  if (pr?.shoe) { res.params.heelCupDepth = Math.max(res.params.heelCupDepth || 0, pr.shoe.minCup || 0); if (pr.shoe.toeBar) res.params.toeCrest = true; res.params.shore = '95A + 85A top'; } // v13 footwear: deep cup, raised toe bar
+  if (pr?.shoe) { res.params.heelCupDepth = Math.max(res.params.heelCupDepth || 0, pr.shoe.minCup || 0); if (pr.shoe.toeBar) res.params.toeCrest = true; if (pr.shoe.toeBarMm) res.params.toeCrestMm = pr.shoe.toeBarMm; if (pr.shoe.rim) res.params.shoeRim = pr.shoe.rim; if (pr.shoe.tread) res.params.tread = pr.shoe.tread; res.params.shore = '95A + 85A top'; } // v13 footwear: deep cup, raised toe bar
   const md = pr?.shoe ? shoeData(side).md : scanModel(side);
   if (md) { res.totalContact = true; res.scanArchH = md.archH; res.notes.unshift(`Total contact: top surface = scanned plantar surface (2 mm grid, heel → toe sulcus), arch filled ${res.params.archFill ?? 100}%; clinical modifications added on top.`); }
   return res;

diff --git a/sw.js b/sw.js
@@ -1,5 +1,5 @@
 // Fixifoot demo – network-first service worker (offline fallback to last cached copy)
-const CACHE = 'fixifoot-demo-v13-1';
+const CACHE = 'fixifoot-demo-v13-2';
 self.addEventListener('install', e => self.skipWaiting());
 self.addEventListener('activate', e => e.waitUntil(caches.keys().then(ks => Promise.all(ks.filter(k => k !== CACHE).map(k => caches.delete(k)))).then(() => self.clients.claim())));
 self.addEventListener('fetch', e => {

diff --git a/README.md b/README.md
@@ -435,3 +435,9 @@ Printer bed (staff → 2-material card → “Printer bed”: K1C 220×220×250 
 
 Notes: a layered 2-material TPU sole needs a dual-extruder / tool-changer printer (most AMS/CFS units cannot feed 85A). Straps and the clog upper are bonded to the sole edge (TPU-compatible adhesive); the sandal sole has shallow recesses where the strap tabs sit. Designs are Fixifoot's own; no third-party names or logos.
 Combined catalog: `/workspace/fixifoot-catalog/src/build-catalog.mjs` rebuilds the 11-product PNG/PDF.
+
+## v13.2 – classic look for the two footwear models
+New hero photos (no logos / brand marks). Geometry updated to match:
+- **Contour Two-Strap**: chunky one-piece-look sole with a raised rim (5 mm, outside the scanned footprint only), pronounced 6 mm toe grip ridge, 18+ mm heel cup, light tread (1.2 mm chevron grooves in the bottom face, bridged by the first layers). Each strap now carries a molded rectangular buckle (frame + centre bar) and a strap-tail relief – same part, printed on edge, no supports. Sole side allowance 6 mm (rim width).
+- **Comfort Clog**: ~13 round Ø11 mm top vents in staggered rows + 2 elongated side vents (15×5.5 mm) per side just above the sole line, all real through-holes; smoother rounded toe box (40 mm nose rounding, ripple-free roof); light tread; swing heel strap on round rivets (Ø16 raised disc + pin), shown swung down round the heel (the strap itself is flat and printed on edge).
+- Bed limits unchanged: K1C fits ≤ 250 mm foot with 5 mm margin, ≤ 255 mm with 2 mm.
